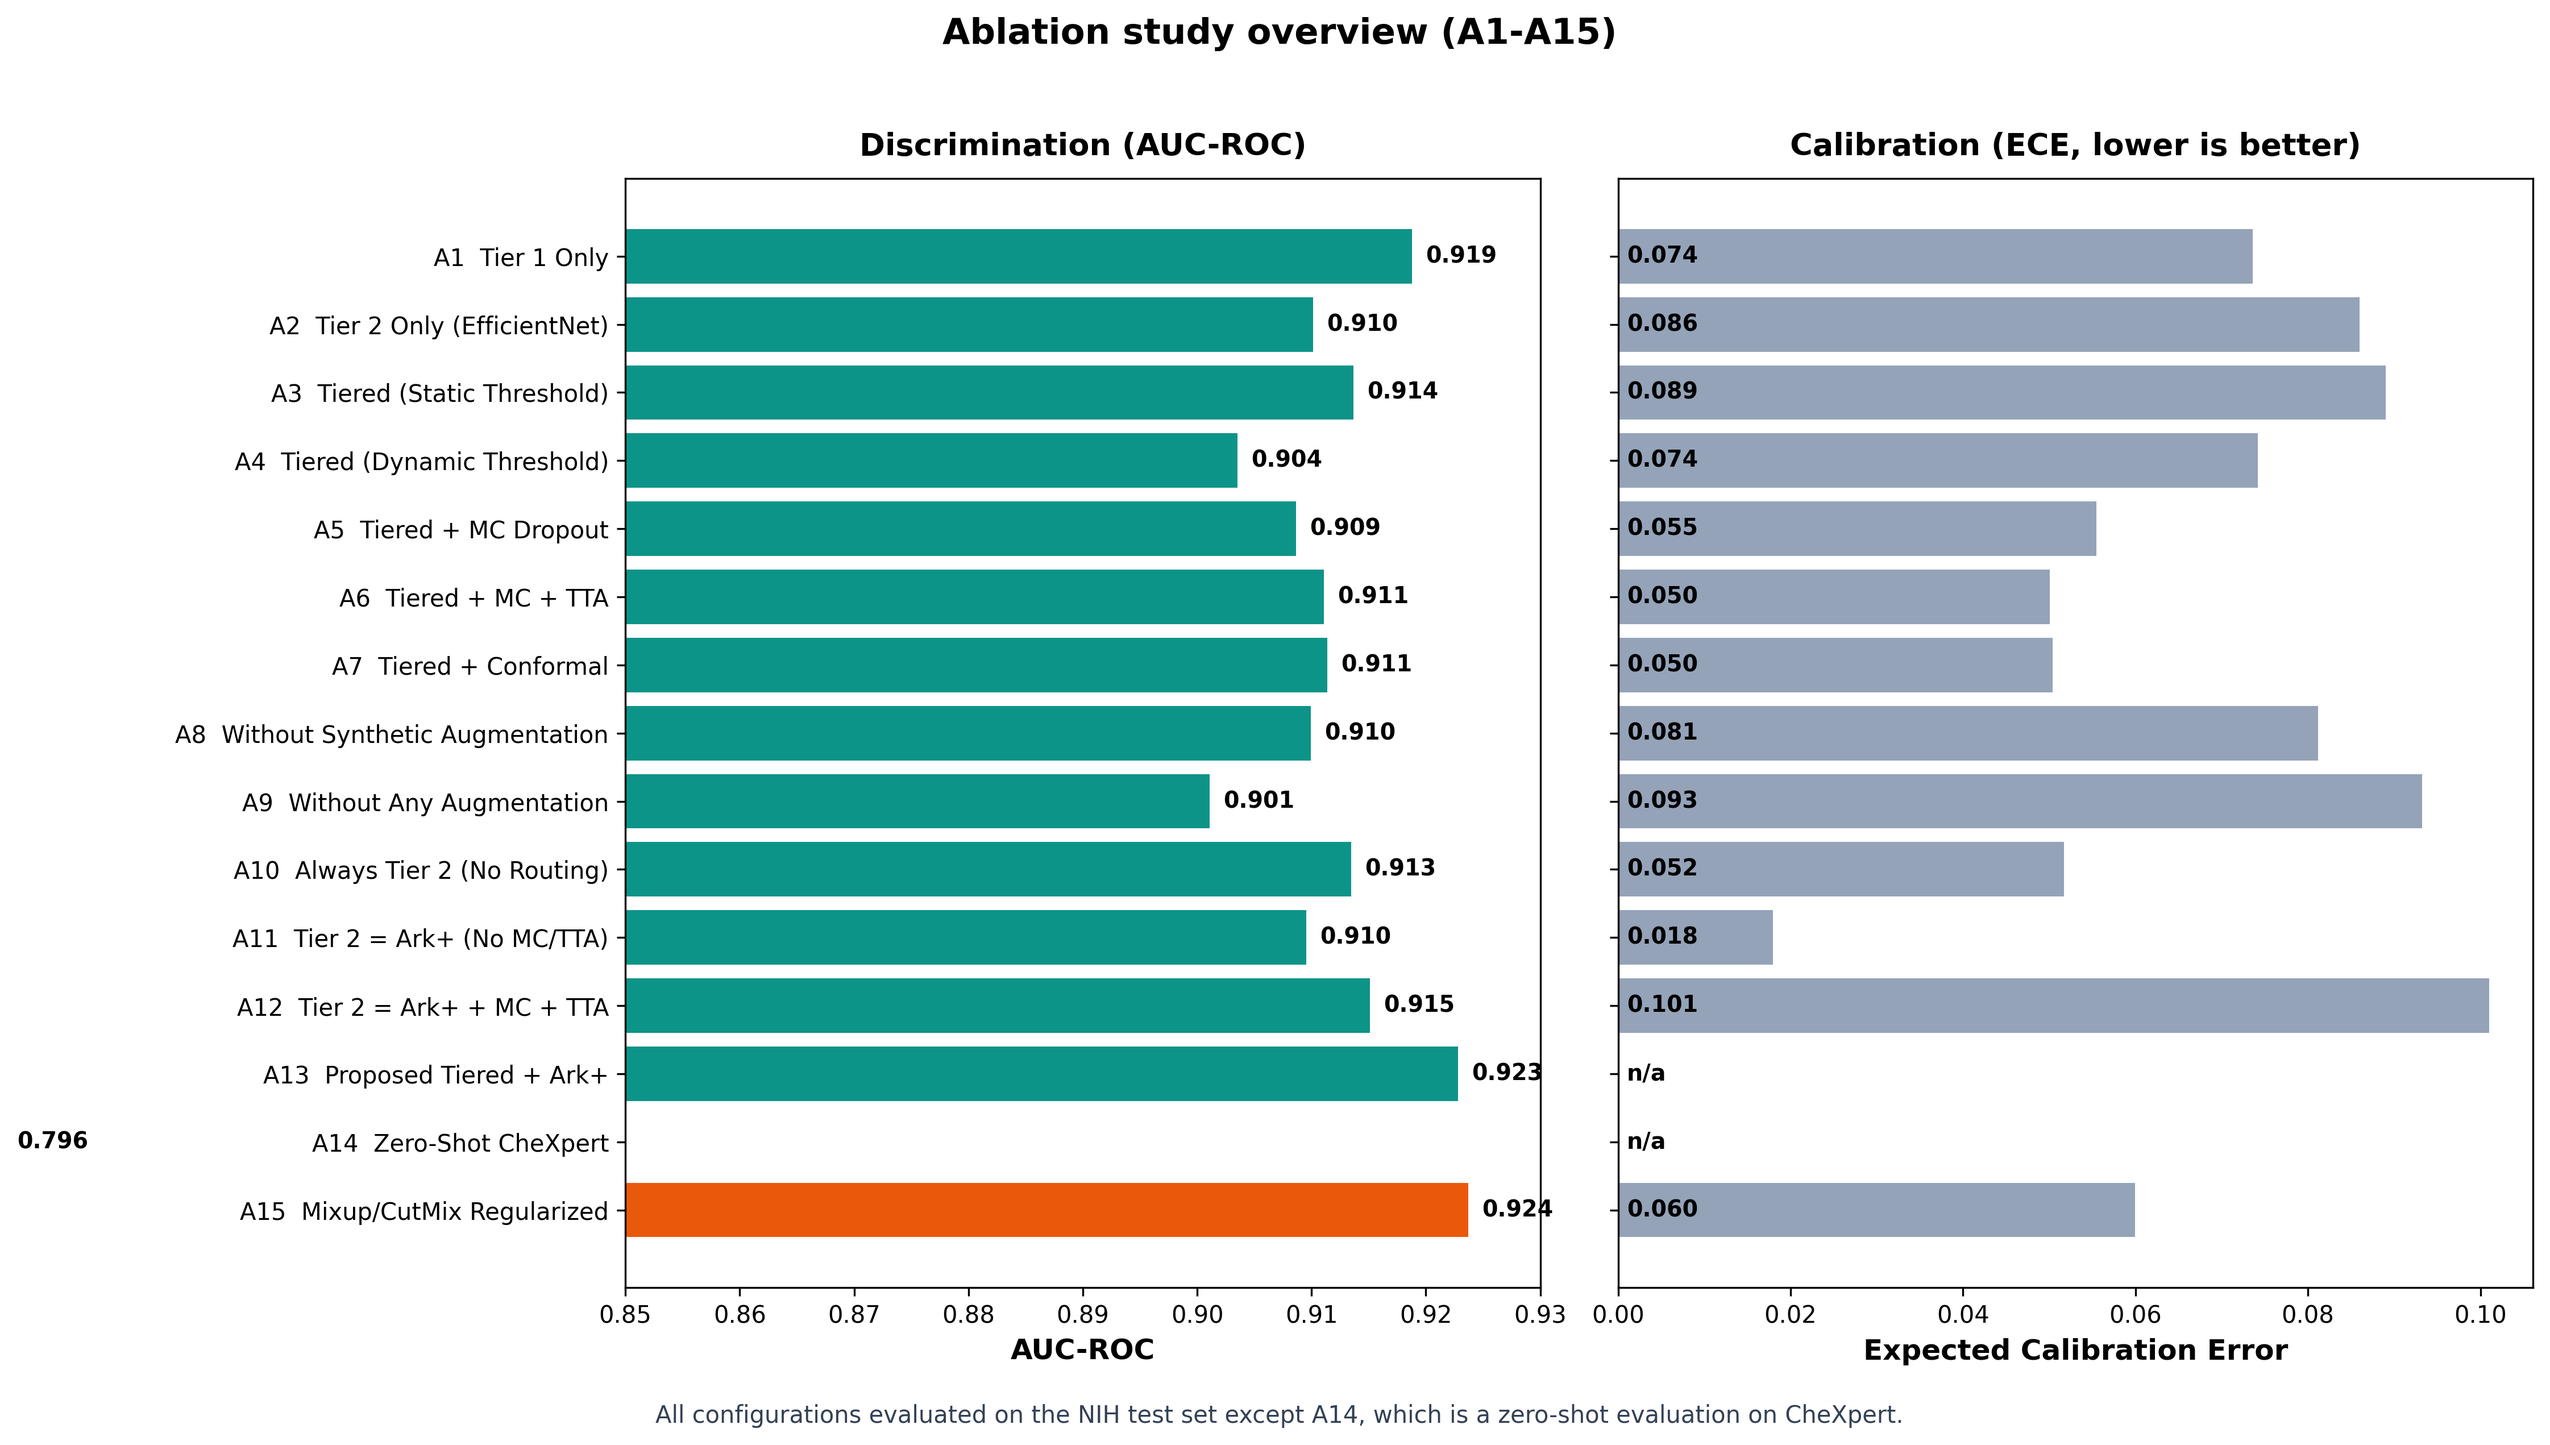
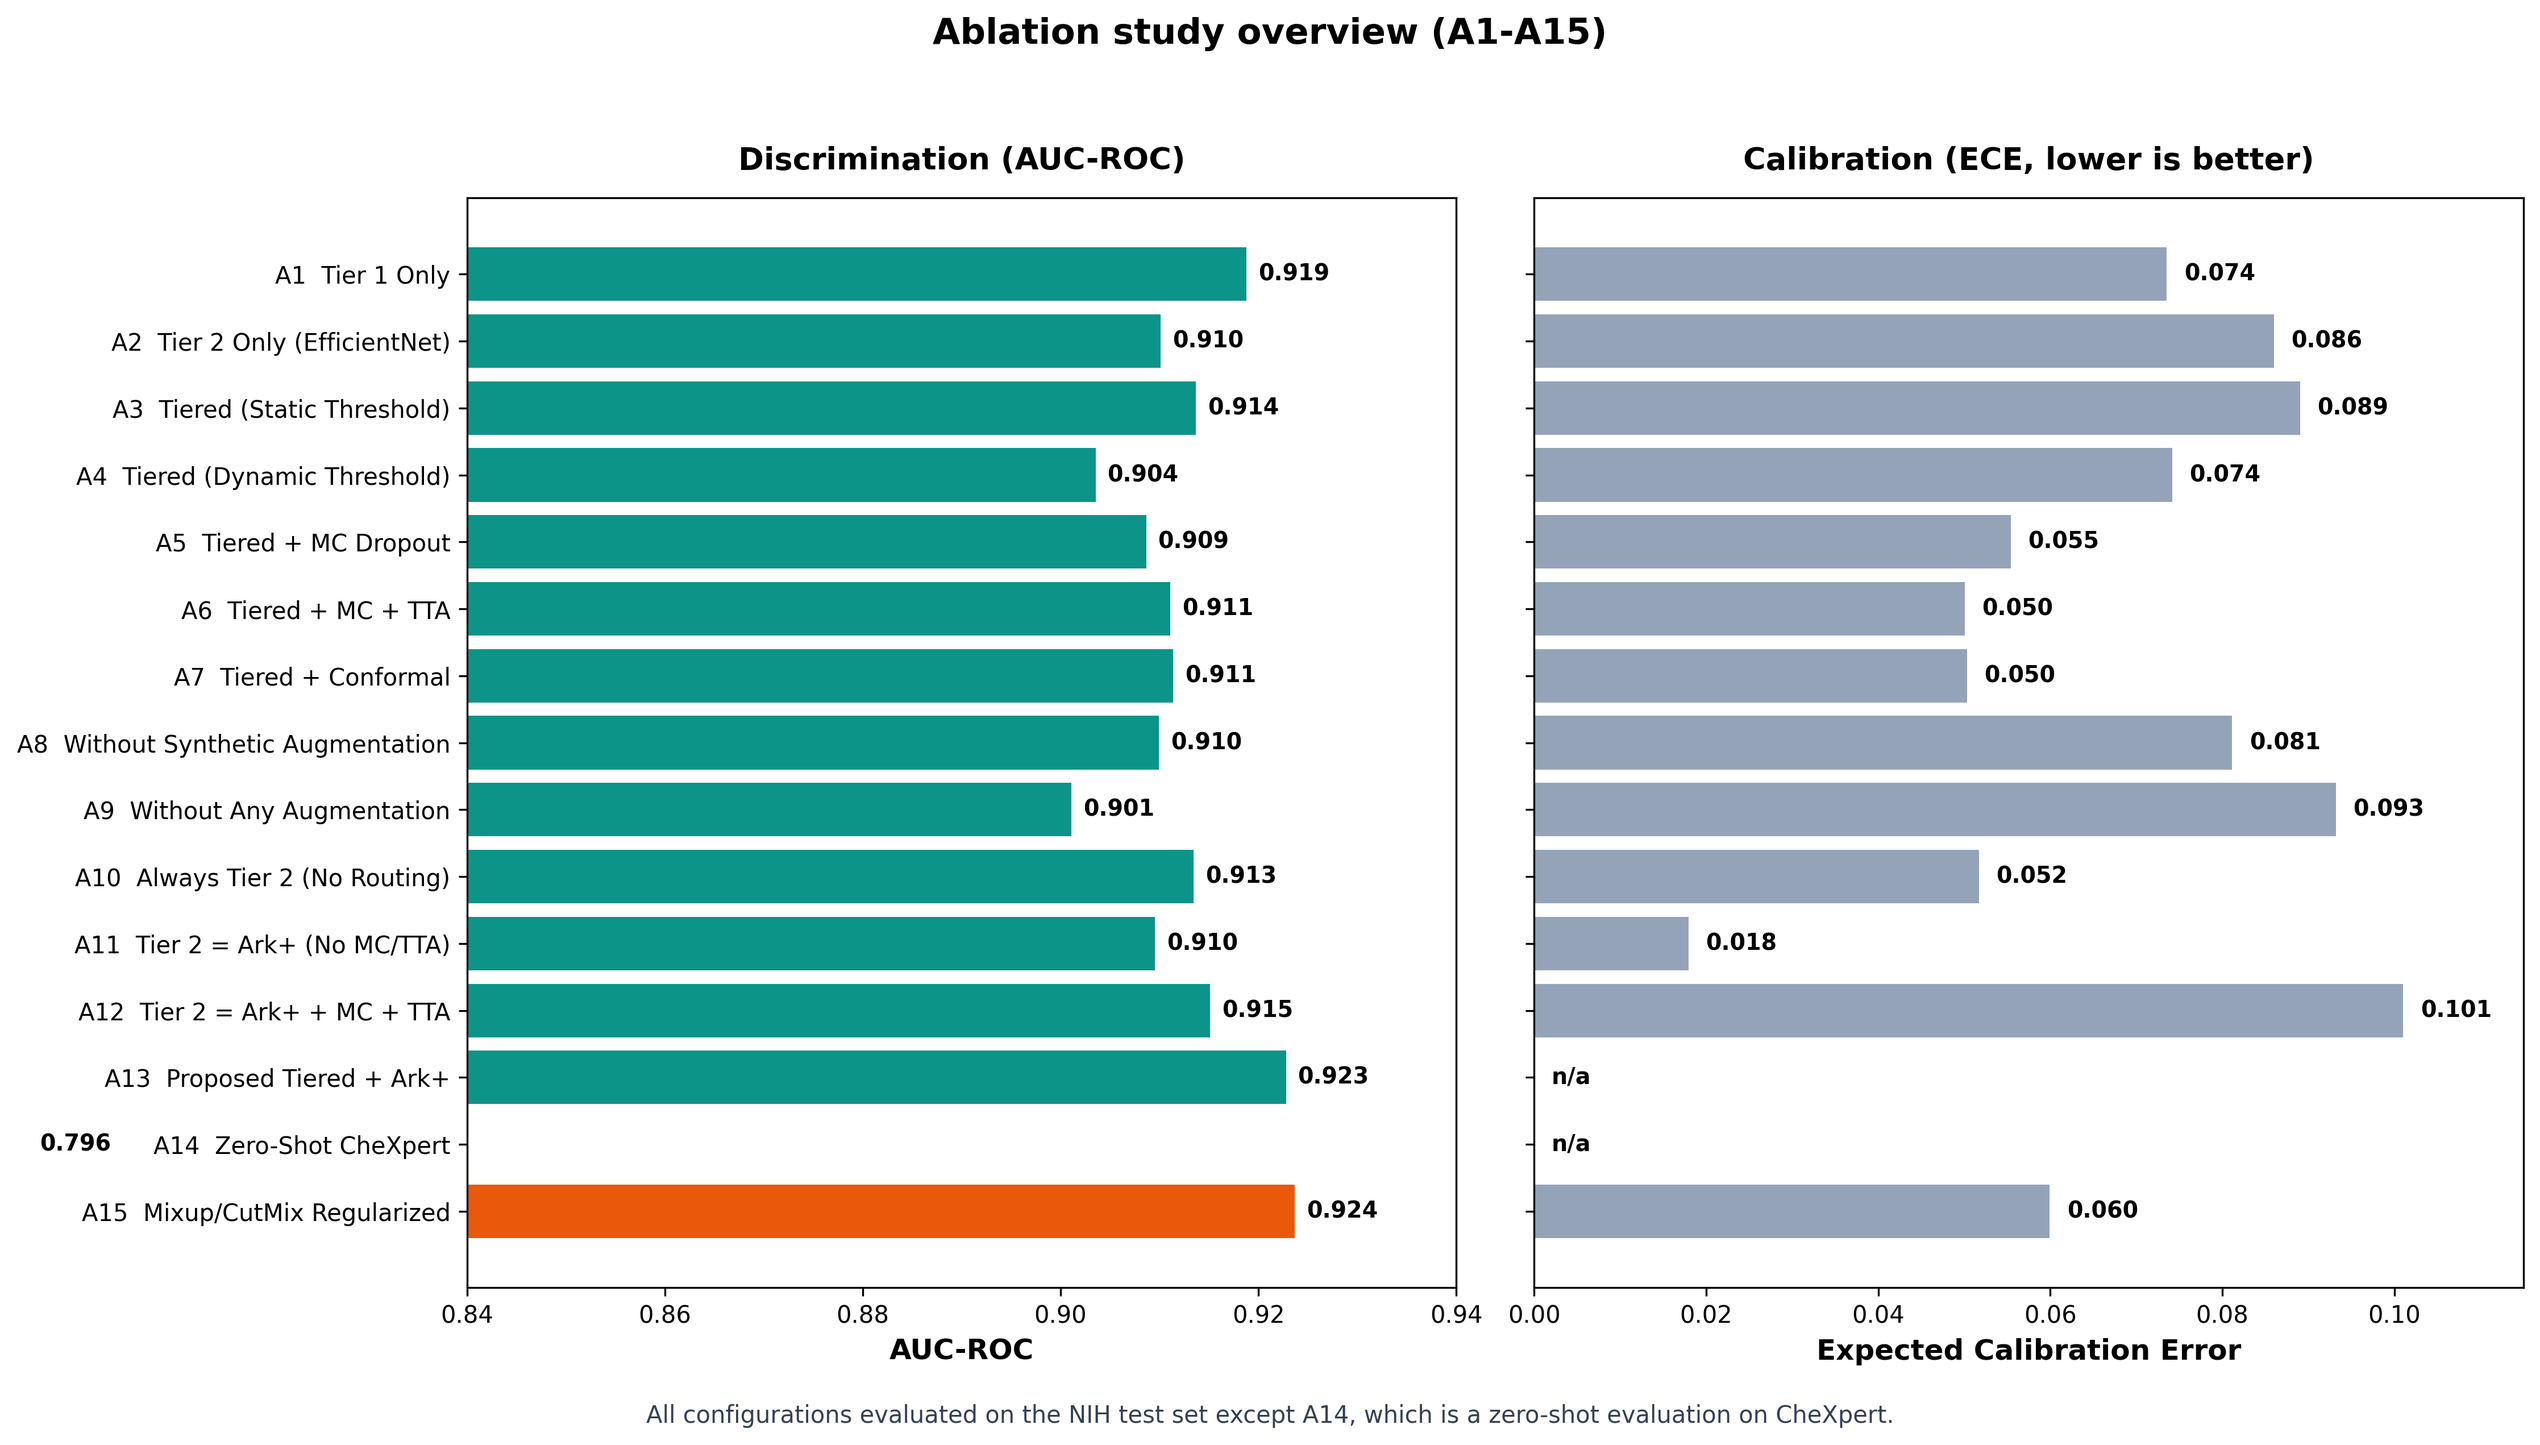
style: fix figure layout margins and text padding in graphical abstract and thesis plots

diff --git a/scripts/build_graphical_abstract.py b/scripts/build_graphical_abstract.py
@@ -1,4 +1,4 @@
-"""Generate a clean graphical abstract image (PNG) for the TCR-P system."""
+"""Generate a clean, perfectly aligned graphical abstract image (PNG) for the TCR-P system."""
 
 from __future__ import annotations
 
@@ -16,64 +16,64 @@ import matplotlib.pyplot as plt
 
 
 def build_graphical_abstract() -> Path:
-    fig, ax = plt.subplots(figsize=(12, 6.5), dpi=300)
-    ax.set_xlim(0, 12)
-    ax.set_ylim(0, 6.5)
+    fig, ax = plt.subplots(figsize=(14, 7), dpi=300)
+    ax.set_xlim(0, 14)
+    ax.set_ylim(0, 7)
     ax.axis("off")
 
-    bg = patches.Rectangle((0, 0), 12, 6.5, color="#f8fafc")
+    bg = patches.Rectangle((0, 0), 14, 7, color="#f8fafc")
     ax.add_patch(bg)
 
     # Title Banner
-    ax.text(6, 6.0, "Tiered Confidence Routing for Pneumothorax (TCR-P)", fontsize=16, fontweight="bold", ha="center", color="#0f172a")
-    ax.text(6, 5.6, "Clinically-Aware Selective Prediction & Uncertainty Calibration Stack", fontsize=11, ha="center", color="#475569")
+    ax.text(7, 6.4, "Tiered Confidence Routing for Pneumothorax (TCR-P)", fontsize=16, fontweight="bold", ha="center", color="#0f172a")
+    ax.text(7, 6.0, "Clinically-Aware Selective Prediction & Uncertainty Calibration Stack", fontsize=11, ha="center", color="#475569")
 
     # Step 1: Input Radiograph Box
-    b1 = patches.FancyBboxPatch((0.5, 2.2), 2.2, 2.6, boxstyle="round,pad=0.3", ec="#94a3b8", fc="#ffffff", lw=1.5)
+    b1 = patches.FancyBboxPatch((0.5, 2.0), 2.6, 3.4, boxstyle="round,pad=0.3", ec="#94a3b8", fc="#ffffff", lw=1.5)
     ax.add_patch(b1)
-    ax.text(1.6, 4.3, "Input Chest X-Ray", fontsize=11, fontweight="bold", ha="center", color="#1e293b")
-    ax.text(1.6, 3.4, "Frontal View\n(NIH / CheXpert)", fontsize=9.5, ha="center", color="#64748b")
-    ax.text(1.6, 2.5, "Standard Preprocessing", fontsize=8.5, ha="center", color="#0d9488", fontweight="bold")
+    ax.text(1.8, 4.8, "Input Chest X-Ray", fontsize=11, fontweight="bold", ha="center", color="#1e293b")
+    ax.text(1.8, 3.7, "Frontal View\n(NIH / CheXpert)", fontsize=9.5, ha="center", color="#64748b")
+    ax.text(1.8, 2.6, "Standard Preprocessing\n& ImageNet Normalization", fontsize=8.5, ha="center", color="#0d9488", fontweight="bold")
 
     # Arrow 1 -> 2
-    ax.annotate("", xy=(3.1, 3.5), xytext=(2.7, 3.5), arrowprops=dict(arrowstyle="->", lw=2, color="#0d9488"))
+    ax.annotate("", xy=(3.8, 3.7), xytext=(3.2, 3.7), arrowprops=dict(arrowstyle="->", lw=2, color="#0d9488"))
 
     # Step 2: Tier 1 MobileNetV2
-    b2 = patches.FancyBboxPatch((3.2, 2.2), 2.4, 2.6, boxstyle="round,pad=0.3", ec="#0d9488", fc="#f0fdf4", lw=2)
+    b2 = patches.FancyBboxPatch((3.9, 2.0), 2.7, 3.4, boxstyle="round,pad=0.3", ec="#0d9488", fc="#f0fdf4", lw=2)
     ax.add_patch(b2)
-    ax.text(4.4, 4.3, "Tier 1: Screening", fontsize=11, fontweight="bold", ha="center", color="#065f46")
-    ax.text(4.4, 3.7, "MobileNetV2", fontsize=10, fontweight="bold", ha="center", color="#0d9488")
-    ax.text(4.4, 3.0, "High-Speed Screening\nConfidence Score c(x)", fontsize=9, ha="center", color="#334155")
-    ax.text(4.4, 2.4, "Fast Inference", fontsize=8.5, ha="center", color="#166534")
+    ax.text(5.25, 4.8, "Tier 1: Screening", fontsize=11, fontweight="bold", ha="center", color="#065f46")
+    ax.text(5.25, 4.1, "MobileNetV2", fontsize=10.5, fontweight="bold", ha="center", color="#0d9488")
+    ax.text(5.25, 3.2, "High-Speed Screening\nConfidence Score c(x)", fontsize=9, ha="center", color="#334155")
+    ax.text(5.25, 2.4, "Fast Inference Pass", fontsize=8.5, ha="center", color="#166534", fontweight="bold")
 
     # Arrow 2 -> Router Decision
-    ax.annotate("", xy=(5.9, 3.5), xytext=(5.6, 3.5), arrowprops=dict(arrowstyle="->", lw=2, color="#0284c7"))
+    ax.annotate("", xy=(7.1, 3.7), xytext=(6.7, 3.7), arrowprops=dict(arrowstyle="->", lw=2, color="#0284c7"))
 
-    # Step 3: Confidence Router
-    diamond = patches.Polygon([[6.6, 4.1], [7.6, 3.5], [6.6, 2.9], [5.6, 3.5]], ec="#0284c7", fc="#e0f2fe", lw=2)
+    # Step 3: Confidence Router Diamond
+    diamond = patches.Polygon([[8.0, 4.5], [9.0, 3.7], [8.0, 2.9], [7.0, 3.7]], ec="#0284c7", fc="#e0f2fe", lw=2)
     ax.add_patch(diamond)
-    ax.text(6.6, 3.6, "Confidence\nRouter", fontsize=10, fontweight="bold", ha="center", color="#0369a1")
-    ax.text(6.6, 3.05, "c(x) ≥ τ ?", fontsize=9, fontweight="bold", ha="center", color="#0284c7")
+    ax.text(8.0, 3.9, "Confidence\nRouter", fontsize=10, fontweight="bold", ha="center", color="#0369a1")
+    ax.text(8.0, 3.3, "c(x) ≥ τ ?", fontsize=9.5, fontweight="bold", ha="center", color="#0284c7")
 
     # Branch 1: Accept High Confidence (Up / Right)
-    ax.annotate("Yes (High Conf.)", xy=(8.2, 4.7), xytext=(6.6, 4.1),
-                arrowprops=dict(arrowstyle="->", lw=1.8, color="#16a34a", connectionstyle="angle,angleA=90,angleB=0,rad=5"))
-    b_pass = patches.FancyBboxPatch((8.3, 4.3), 3.2, 1.0, boxstyle="round,pad=0.2", ec="#16a34a", fc="#f0fdf4", lw=1.5)
+    ax.annotate("Yes (High Conf.)", xy=(9.7, 5.2), xytext=(8.0, 4.5),
+                arrowprops=dict(arrowstyle="->", lw=2, color="#16a34a", connectionstyle="angle,angleA=90,angleB=0,rad=5"))
+    b_pass = patches.FancyBboxPatch((9.8, 4.6), 3.7, 1.3, boxstyle="round,pad=0.25", ec="#16a34a", fc="#f0fdf4", lw=1.5)
     ax.add_patch(b_pass)
-    ax.text(9.9, 4.8, "Direct Decision (Tier 1)", fontsize=10, fontweight="bold", ha="center", color="#15803d")
-    ax.text(9.9, 4.4, "Rapid clearance (~75% of cohort)", fontsize=8.5, ha="center", color="#166534")
+    ax.text(11.65, 5.3, "Direct Decision (Tier 1)", fontsize=10.5, fontweight="bold", ha="center", color="#15803d")
+    ax.text(11.65, 4.8, "Rapid clearance (~75% of cohort)\nNo Tier 2 compute used", fontsize=8.5, ha="center", color="#166534")
 
     # Branch 2: Escalate Low Confidence (Down / Right)
-    ax.annotate("No (Escalate)", xy=(7.4, 1.8), xytext=(6.6, 2.9),
-                arrowprops=dict(arrowstyle="->", lw=1.8, color="#ea580c", connectionstyle="angle,angleA=-90,angleB=0,rad=5"))
+    ax.annotate("No (Escalate)", xy=(9.7, 2.0), xytext=(8.0, 2.9),
+                arrowprops=dict(arrowstyle="->", lw=2, color="#ea580c", connectionstyle="angle,angleA=-90,angleB=0,rad=5"))
 
     # Step 4: Tier 2 Specialist + Uncertainty Stack
-    b4 = patches.FancyBboxPatch((7.5, 0.4), 4.0, 2.6, boxstyle="round,pad=0.3", ec="#ea580c", fc="#fff7ed", lw=2)
+    b4 = patches.FancyBboxPatch((9.8, 0.5), 3.7, 3.2, boxstyle="round,pad=0.3", ec="#ea580c", fc="#fff7ed", lw=2)
     ax.add_patch(b4)
-    ax.text(9.5, 2.6, "Tier 2 Specialist + Uncertainty Stack", fontsize=11, fontweight="bold", ha="center", color="#9a3412")
-    ax.text(9.5, 2.1, "EfficientNet-B4 / Ark+ Swin", fontsize=10, fontweight="bold", ha="center", color="#c2410c")
-    ax.text(9.5, 1.5, "• MC-Dropout (Epistemic)\n• Test-Time Augmentation (TTA)\n• Conformal Prediction Sets (95% Coverage)", fontsize=9, ha="center", color="#431407")
-    ax.text(9.5, 0.6, "Calibrated Output + Abstraction / Human Deferral", fontsize=8.5, fontweight="bold", ha="center", color="#c2410c")
+    ax.text(11.65, 3.2, "Tier 2 Specialist Stack", fontsize=11, fontweight="bold", ha="center", color="#9a3412")
+    ax.text(11.65, 2.7, "EfficientNet-B4 / Ark+ Swin", fontsize=10, fontweight="bold", ha="center", color="#c2410c")
+    ax.text(11.65, 1.9, "• MC-Dropout (Epistemic)\n• Test-Time Augmentation (TTA)\n• Conformal Sets (95% Coverage)", fontsize=8.5, ha="center", color="#431407")
+    ax.text(11.65, 0.9, "Calibrated Output +\nExplicit Deferral Set", fontsize=8.5, fontweight="bold", ha="center", color="#c2410c")
 
     out_paper = REPO_ROOT / "paper" / "graphical_abstract.png"
     out_paper.parent.mkdir(parents=True, exist_ok=True)

diff --git a/scripts/build_thesis_figures.py b/scripts/build_thesis_figures.py
@@ -69,9 +69,9 @@ def build_ablation_overview() -> None:
 
     auc_colors = [HIGHLIGHT if k == best else ACCENT for k in range(len(rows))]
     ax_auc.barh(list(y), aucs, color=auc_colors)
-    ax_auc.set_xlim(0.85, 0.93)
+    ax_auc.set_xlim(0.84, 0.94)
     ax_auc.set_xlabel("AUC-ROC", fontsize=12, fontweight="bold")
-    ax_auc.set_title("Discrimination (AUC-ROC)", fontsize=13, fontweight="bold", pad=10)
+    ax_auc.set_title("Discrimination (AUC-ROC)", fontsize=13, fontweight="bold", pad=12)
     ax_auc.set_yticks(list(y))
     ax_auc.set_yticklabels(labels, fontsize=10, fontweight="medium")
     ax_auc.tick_params(axis='x', labelsize=10)
@@ -81,12 +81,13 @@ def build_ablation_overview() -> None:
 
     ece_vals = [(e if e is not None else 0.0) for e in eces]
     ax_ece.barh(list(y), ece_vals, color=MUTED)
+    ax_ece.set_xlim(0, 0.115)
     ax_ece.set_xlabel("Expected Calibration Error", fontsize=12, fontweight="bold")
-    ax_ece.set_title("Calibration (ECE, lower is better)", fontsize=13, fontweight="bold", pad=10)
+    ax_ece.set_title("Calibration (ECE, lower is better)", fontsize=13, fontweight="bold", pad=12)
     ax_ece.tick_params(axis='x', labelsize=10)
     for k, e in enumerate(eces):
         text = "n/a" if e is None else f"{e:.3f}"
-        ax_ece.text(0.001, k, text, va="center", fontsize=9.5, fontweight="bold")
+        ax_ece.text(max(e, 0.001) + 0.002 if e is not None else 0.002, k, text, va="center", fontsize=9.5, fontweight="bold")
 
     fig.suptitle("Ablation study overview (A1-A15)", fontsize=15, fontweight="bold", y=0.98)
     fig.text(
@@ -97,7 +98,7 @@ def build_ablation_overview() -> None:
         fontsize=10,
         color="#334155",
     )
-    fig.tight_layout(rect=(0, 0.03, 1, 0.96))
+    fig.tight_layout(rect=(0, 0.03, 1, 0.95))
     save_figure(fig, "ablation_overview.png")
     plt.close(fig)
 
@@ -121,7 +122,7 @@ def build_cross_dataset_figure() -> None:
         label="CheXpert (zero-shot, A14)", color=MUTED,
     )
 
-    ax.set_ylim(0, 1.15)
+    ax.set_ylim(0, 1.20)
     ax.set_ylabel("Score", fontsize=12, fontweight="bold")
     ax.set_title("Cross-dataset generalization of the proposed tiered system",
                  fontsize=14, fontweight="bold", pad=12)
